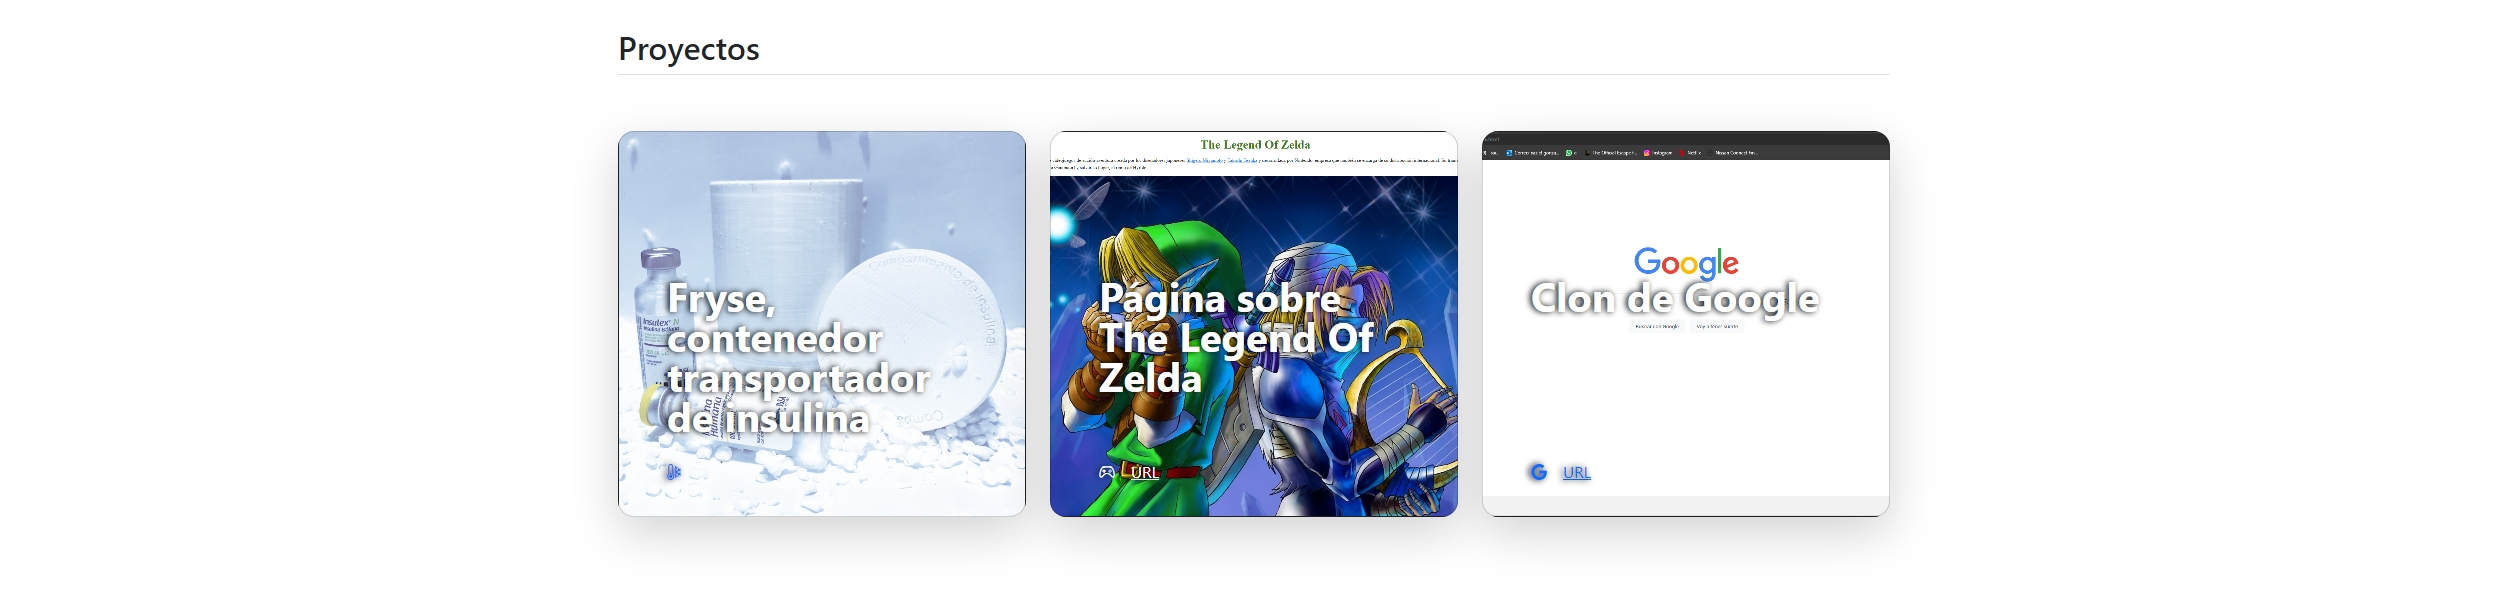
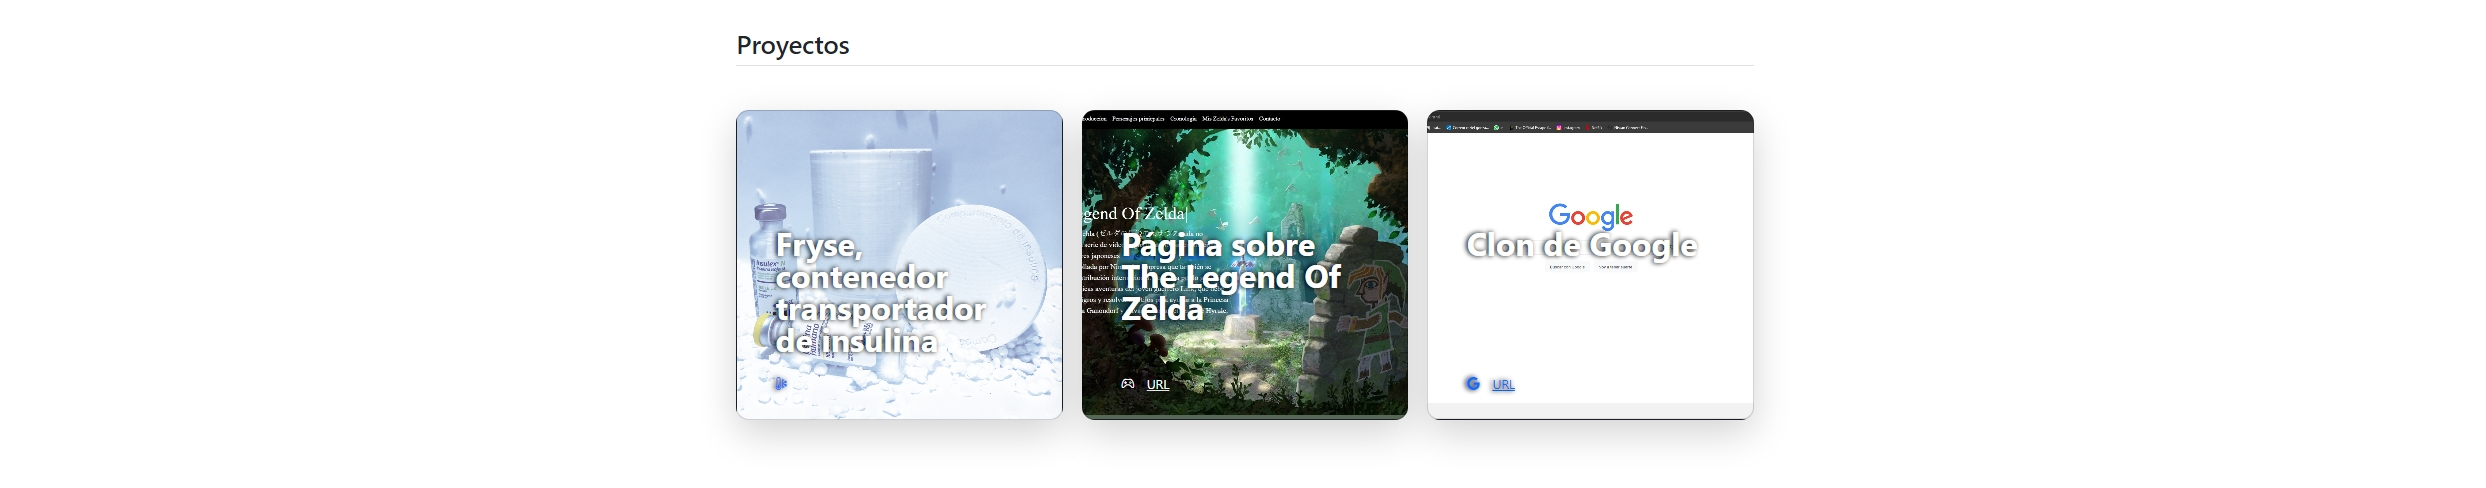
actualización del link e imágenes de mis proyectos

Changed region(s): [[0.2478, 0.2152, 0.7743, 0.8914], [0.2478, 0.0615, 0.3407, 0.123]]

diff --git a/style.css b/style.css
@@ -25,7 +25,7 @@
 }
 
 #proyecto-2 {
-  background-image: url('assets/página\ de\ zelda.png');
+  background-image: url('assets/pagina-de-zelda.netlify.app.jpeg');
   background-size: cover;
   background-repeat: no-repeat;
   background-position: center;
